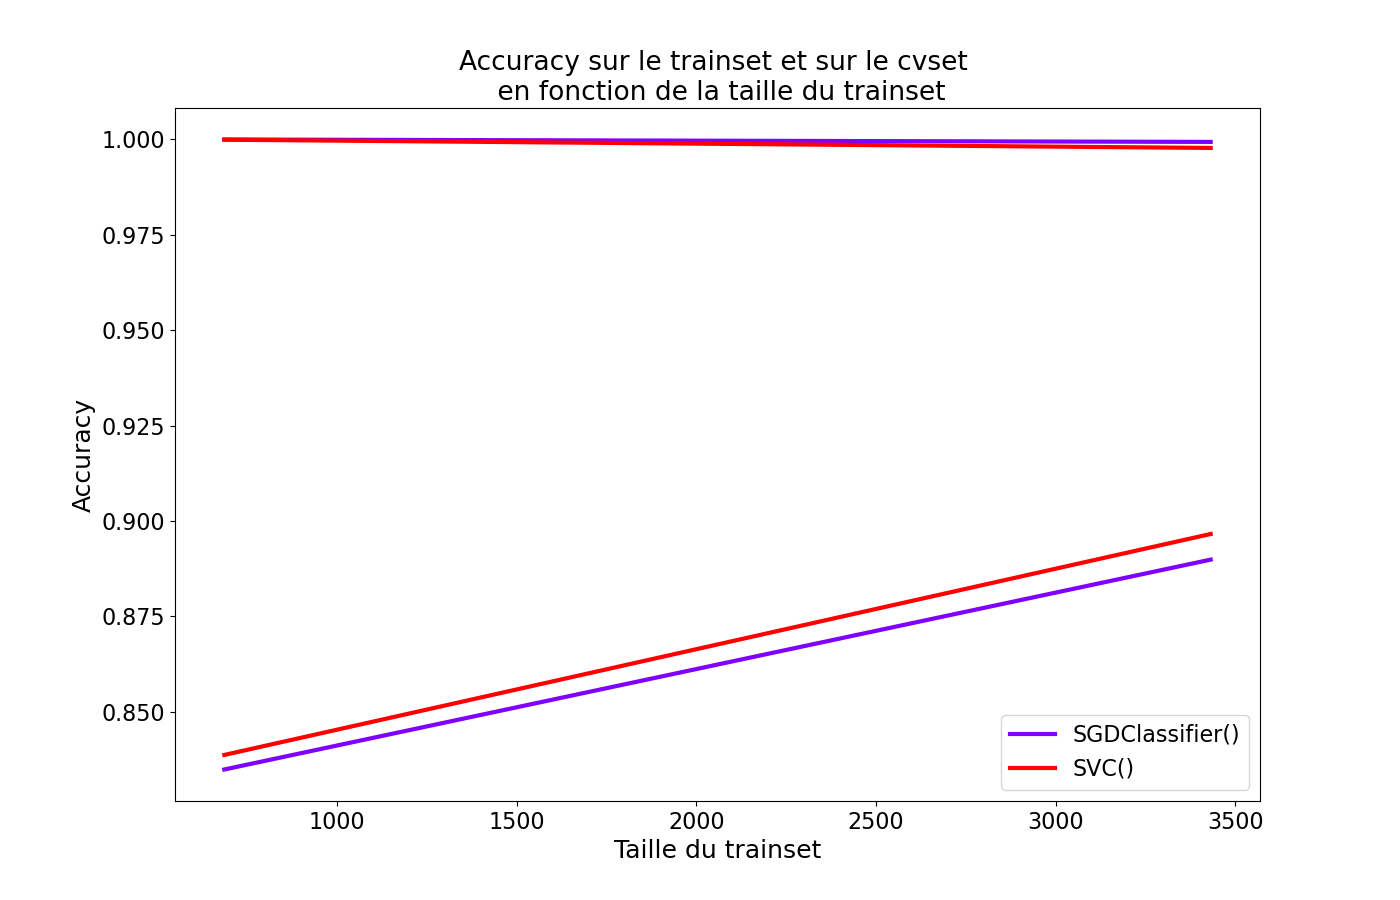
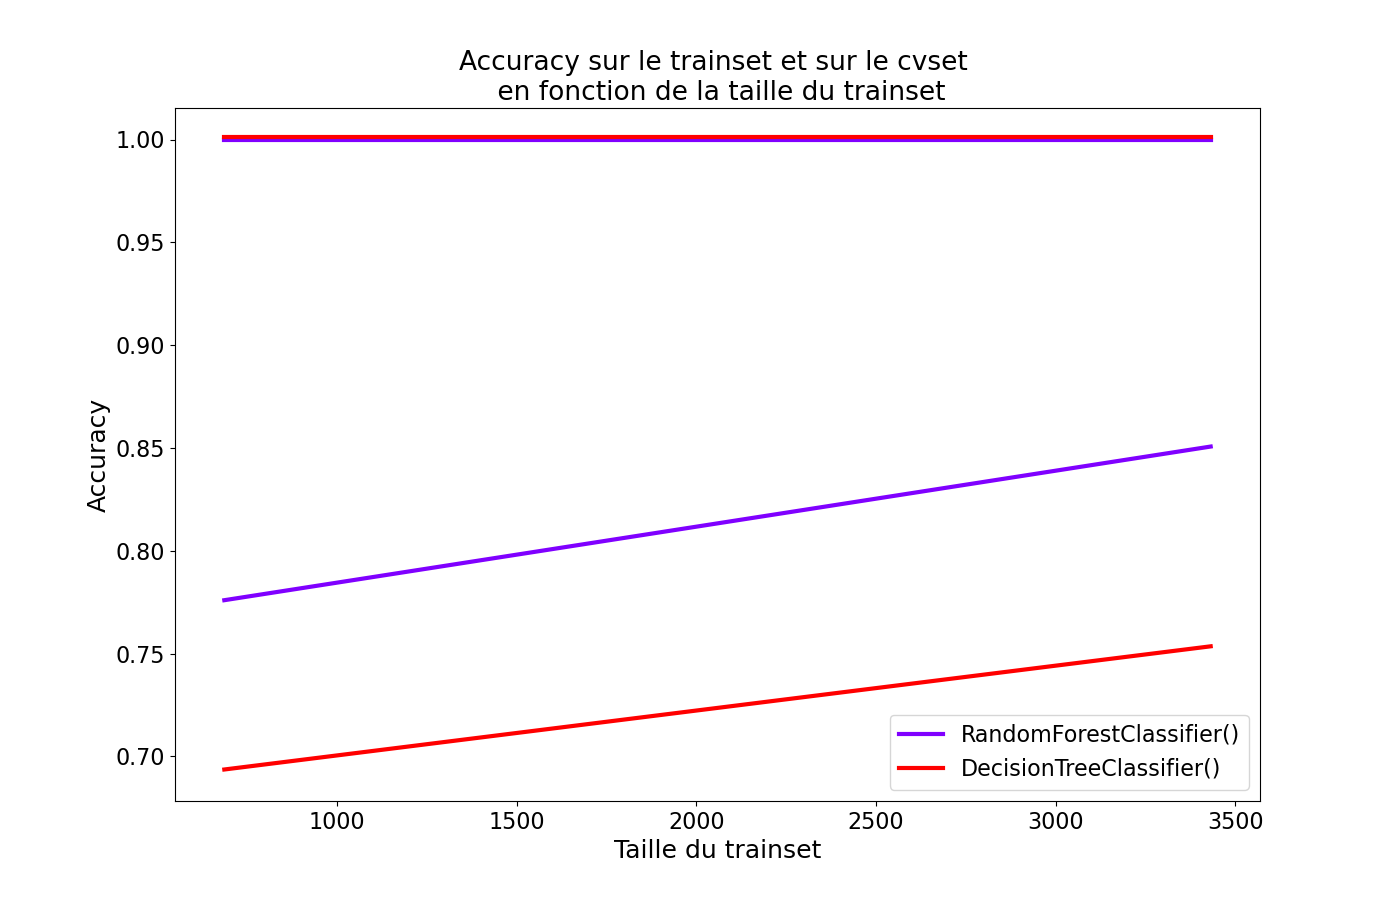
doc datasource.py ok

diff --git a/sources/create_dataset/datasource.py b/sources/create_dataset/datasource.py
@@ -12,7 +12,7 @@ class DataSource:
     """ Define an article from a blog """
 
     def __init__(self, url, num_articles):
-        """ Constructor of DataSource """
+        """ Constructeur de la classe DataSource """
         self.url = url
         self.corpus_name = ""
         self.path_corpus_txt = ""
@@ -26,7 +26,7 @@ class DataSource:
 
 
     def __str__(self):
-        """ Renvoie une chaine de caractère décrivant l'article """
+        """ Descripteur de la classe DataSource """
         print("str :")
         str_url = str(self.url)
         # str_articles_list = str(self.articles_list)
@@ -39,19 +39,25 @@ class DataSource:
 
 
     def create_corpus_txt_filename(self):
+        """ Retourne le nom du fichier .txt d'un corpus 
+        Sortie :
+            filename (string) : Le nom du fichier .txt d'un corpus
+        """
         filename = "corpus_{}.txt".format(self.corpus_name) 
         return(filename)
 
 
     def save_articles_urls(self, file_open_mode="w", sep = "\n"):
-        """ # Enregistrer la liste des urls d'articles """
-        print("in save_articles_urls debut")
+        """ Enregistrer la liste des urls d'articles
+        Entrees :
+            file_open_mode (string) : Le mode d'ecriture du fichier .txt ("w", "a", etc.)
+            sep (string) : Le separateur entre chaque ligne ecrite (url) dans le fichier .txt
+        """
         save_list_to_txt(self.articles_urls, self.path_articles_urls, file_open_mode, sep)
-        print("in save_articles_urls fin")
 
 
     def create_all_articles(self):
-        """ Recupere la variable all_articles depuis la commande de terminal """
+        """ Recupere et renvoie la variable all_articles entree dans une commande de terminal """
         if(self.num_articles == "all"):
             all_articles = True
         else:
@@ -61,19 +67,15 @@ class DataSource:
 
 
     def save_corpus_txt(self, savemode="overwrite"):
-        """Cree un corpus d'un corpus_name (au format de liste de documents/textes) dans le fichier texte filename_output
-        a partir d'une liste d'adresses urls d'articles
+        """ Sauvegarde un corpus dans le fichier texte filename_output a partir 
+        d'une liste d'adresses urls d'articles
 
-        Parametres: 
-        articles_urls (liste de string) : La liste d'urls d'articles dont on veut extraire les paragraphes. 
-                                            Ex : https://parlafoi.fr/lire/series/commentaire-de-la-summa/
-        path_articles_urls (string) : La liste des paths des listes d'articles
-        path_corpus_txt (string) : Le path vers le corpus, exemple = 
-        save_mode (string) : Le mode d'ecriture du fichier ("append" = ajouter ou "overwrite" = creer un nouveau)
-        
-        Sortie:
-        None : Fichier filename_corpus qui contient le corpus, une suite de textes separes par une saut de ligne
+        Entrees : 
+            savemode (string) : Le mode d'ecriture du fichier ("append" = ajouter ou "overwrite" = creer un nouveau)
+        Sortie :
+            None : Fichier filename_corpus qui contient le corpus, une suite de textes separes par une saut de ligne
 
+        Futures ameliorations possibles
         Done : version "overwrite" recreer le corpus a chaque fois de zero 
         To do : version "append" ajouter du texte a un corpus deja cree, version "ignore" ne fais rien si fichier existe deja
                 version "error" qui renvoie une erreur si fichier existe deja
@@ -123,7 +125,7 @@ class DataSource:
 
 
     def save_corpus_parquet(self, df):
-        """ Sauvegarde le corpus pandas dataframe dans un fichier parquet"""
+        """ Sauvegarde le corpus pandas dataframe dans un fichier parquet """
         filename_corpus_parquet = self.filename_corpus_txt.split(".txt")[0] + ".parquet"
         df.to_parquet("./data/input/corpus_parquet/" + filename_corpus_parquet)
 

diff --git a/sources/classification/lib_classification.py b/sources/classification/lib_classification.py
@@ -528,7 +528,7 @@ def save_model_diagnostics(corpus, X_train, y_train, y_test, y_pred, indices_tes
 
     # Learning curves
     k = 10
-    kfold = RepeatedStratifiedKFold(n_splits=k, n_repeats=20, random_state=None)
+    kfold = RepeatedStratifiedKFold(n_splits=k, n_repeats=3, random_state=None)
     cv_param = kfold
     num_experiences = 4
     train_sizes = np.linspace(0.2, 1.0, num_experiences)
@@ -574,14 +574,14 @@ def select_models(corpus, corpus_name, id_col_name, class_col_name, features_col
 
     ## Learning curves (du meilleur modele)
     k = 10
-    kfold = RepeatedStratifiedKFold(n_splits=k, n_repeats=20, random_state=None)
+    kfold = RepeatedStratifiedKFold(n_splits=k, n_repeats=2, random_state=None)
     cv_param = kfold
     num_experiences = 2
     train_sizes = np.linspace(0.2, 1.0, num_experiences)
     # n_jobs = -1
     models = []
     # models.append(('AdaBoostClassifier', AdaBoostClassifier()))
-    # models.append(('RandomForest', RandomForestClassifier()))
+    models.append(('RandomForest', RandomForestClassifier()))
     # models.append(('SGDClassifier', SGDClassifier()))
     # models.append(('SVM', SVC()))
     models.append(('DecisionTreeClassifier', DecisionTreeClassifier()))
